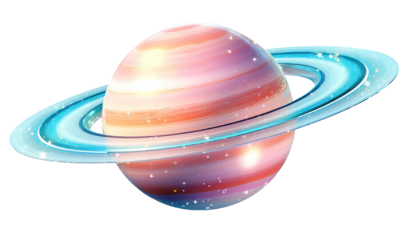
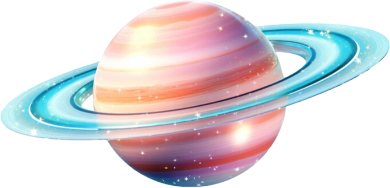
85%feito

diff --git a/estilo.css b/estilo.css
@@ -75,9 +75,13 @@ body{
     }
     
     .container {
-        width: 90%;
-        max-width: 1200px; /* Limit the max width */
+        width: 100%;
+        max-width: 1050px; /* Limit the max width */
         margin: 0 auto; /* Center the container */
+        
+        justify-content: center;
+       
+        
     }
     
     .row {
@@ -91,9 +95,10 @@ body{
     
 
     .card {
-        min-width:250px;
-        width: 250PX;
-        margin: 10px; 
+        min-width:60%;
+        width: 80%;
+        margin: 15px; 
+        height:80%;
         background-color: #FFF;
         text-align: center; 
         padding-bottom:20px;
@@ -101,31 +106,52 @@ body{
         border-radius: 20px;
         display: inline-block;
         vertical-align: top;
-        border: 2px solid red;
         border: 0;
+        justify-content: center;
         
     }
 
-    .card-img-top{
-        width: 150px;
-        height: auto;
-        margin-bottom: 40px;
+    .card-img-top {
+        margin-top: -40px;
+        margin-bottom: 10px;
         background-color: #ffffff00;
 
+    }
+    .card-saturno{
+        margin-bottom: 20%;
+    }
+    .saturno{
+        margin-left: -30px;
+        width: 300px;
+        height: auto;
+        margin-bottom: 20px;
+    }
+    .jupiter{
+        width: 170px;
+        height: auto;
+        margin-bottom: 0;
+    }
+    .card-jupiter{
+        margin-bottom: 15%;
+    }
+    .marte{
+        width: 150px;
+        height: auto;
+        margin-bottom: 35px;
+        
     }
     .card-body {
         display: flex;
         flex-direction: column;
         justify-content: center;
         align-items: center;
-        padding: 20%;
+        padding: 20px;
         
     }
     
 
     .frame-child {
         position: absolute;
-        top: 1229.78px;
         left: 269.14px;
         border-radius: 32px;
         background-color: #fff;
@@ -135,8 +161,11 @@ body{
         display: block;
         left: 50%;
         z-index: 3;
+        top:95%;
+        margin-top: 15%;
         }
-        .col-4 {
+    .col-4 {
+            object-position: center;
             padding: 15px; /* Create gutters between columns */
             box-sizing: border-box; /* Include padding in the width */
             flex: 0 0 33.3333%; /* Each column takes one-third of the width */
@@ -146,3 +175,35 @@ body{
                 flex: 0 0 100%; /* Stack columns on smaller screens */
             }
         }
+    button{
+        text-align: center;
+            padding-top: 2%;
+            padding-bottom: 2%;
+            text-decoration: none;
+            flex-shrink: 0;
+            border-radius: 10px;
+            color: #FFFF;
+            background: linear-gradient(90deg, #071A3F 0%, #3700B7 100%);
+            box-shadow: 3px 4px 21px 7px rgba(255, 255, 255, 0.08);
+            border: none;
+            padding: 10px;
+            height: 50px;
+            width:200px;
+            cursor: pointer;
+            transition: background-color 0.3s ease;
+    }
+    button:hover{
+        text-align: center;
+            padding-top: 2%;
+            padding-bottom: 2%;
+            text-decoration: none;
+            flex-shrink: 0;
+            border-radius: 10px;
+            color: #FFFF;
+            background: linear-gradient(90deg, #071A3F 0%, #3700B7 100%);
+            box-shadow: 3px 4px 21px 7px rgba(255, 255, 255, 0.08);
+            border: none;
+            padding: 10px;
+            height: 60px;
+            width:250px;
+    }

diff --git a/indexplanos.html b/indexplanos.html
@@ -1,0 +1,80 @@
+<!DOCTYPE html>
+<html lang="en">
+<head>
+    <meta charset="UTF-8">
+    <meta name="viewport" content="width=device-width, initial-scale=1.0">
+    <title>T.A.P.U.</title>
+    <link rel="icon" href="imgs/Train icon.svg" alt="icon train">
+    <link rel="stylesheet" href="estilo.css">
+    <link rel="preconnect" href="https://fonts.googleapis.com">
+    <link rel="preconnect" href="https://fonts.gstatic.com" crossorigin>
+    <link href="https://fonts.googleapis.com/css2?family=Kode+Mono:wght@400..700&display=swap" rel="stylesheet">
+
+
+</head>
+<body>
+   <section  class="body">
+    <div class="header">
+        <img src="imgs/w10388-small 1.png" class="topo">
+        <img src="imgs/logo.svg" class="icone">
+    </div>
+    <div class="bloco-meio">
+        <img src="imgs/w10388-small 2.png" class="galaxiaM">
+        <div class="rectangle-div"></div>
+    </div>
+    
+    
+    <nav>
+    <div class="container">
+        <div class="row">
+            <div class="col-4">
+                <div class="card">
+                    <img class="card-img-top marte" src="imgs/2 1.png" alt="Imagem de capa do card">
+                    <div class="card-body">
+                      <h5 class="card-title">Marte</h5>
+                      <p class="card-text">Viaje para nosso planeta vizinho e conheça sua beleza pessoalmente com nosso plano base.</p>
+                      <button id="botao" onclick="loadIframe('marte.html')">Mais detalhes</button>
+                    </div>
+                  </div>
+            </div>
+     
+            <div class="col-4">
+                <div class="card card-jupiter" >
+                    <img class="card-img-top jupiter" src="imgs/pngtree-beautiful-planet-jupiter-png-image_11494148 1.png" alt="Imagem de capa do card">
+                    <div class="card-body">
+                      <h5 class="card-title">Jupiter</h5>
+                      <p class="card-text">Veja de perto a grandeza do maior planeta de nosso sistema solar enquanto no conforto do nosso plano médio.</p>
+                      <button id="botao" onclick="loadIframe('jupiter.html')">Mais detalhes</button>
+                    </div>
+                  </div>
+            </div>
+     
+            <div class="col-4">
+                <div class="card">
+                    <img class="card-img-top saturno" src="imgs/360_F_809174670_OboyTUyEIBVCVGYLRUjlK2Wx6QE1kggT 1.png" alt="Imagem de capa do card">
+                    <div class="card-body">
+                      <h5 class="card-title">Saturno</h5>
+                      <p class="card-text">Explore os deslumbrantes anéis de Saturno e admire suas cores vibrantes, tudo isso no aconchego do nosso plano luxuoso.</p>
+                      <button id="botao" onclick="loadIframe('saturno.html')">Mais detalhes</button>
+                    </div>
+                  </div>
+            </div>
+     
+            </div>
+        </div>
+    </div>
+    <iframe name="Principal" class="frame-child" id="a"></iframe>
+    </iframe>
+    <script>
+        function loadIframe(FileName) {
+            document.getElementById('Principal').src = FileName;
+        }
+    
+    </script>
+
+    </section>
+    </nav>
+    
+
+</body>
+</html>
